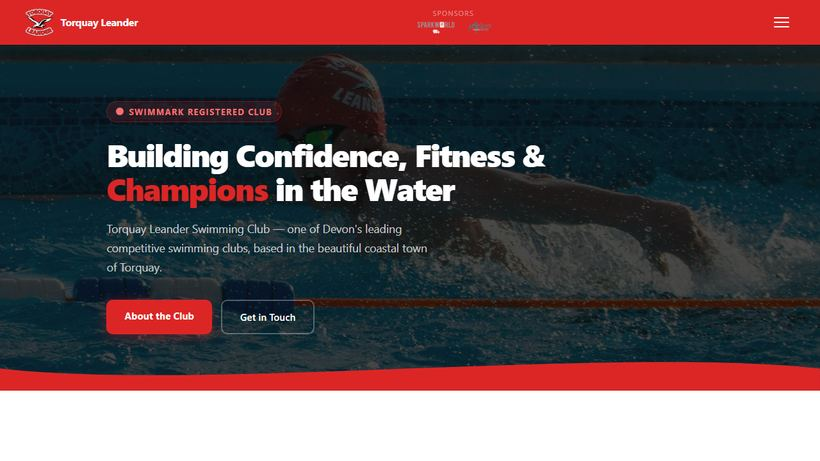
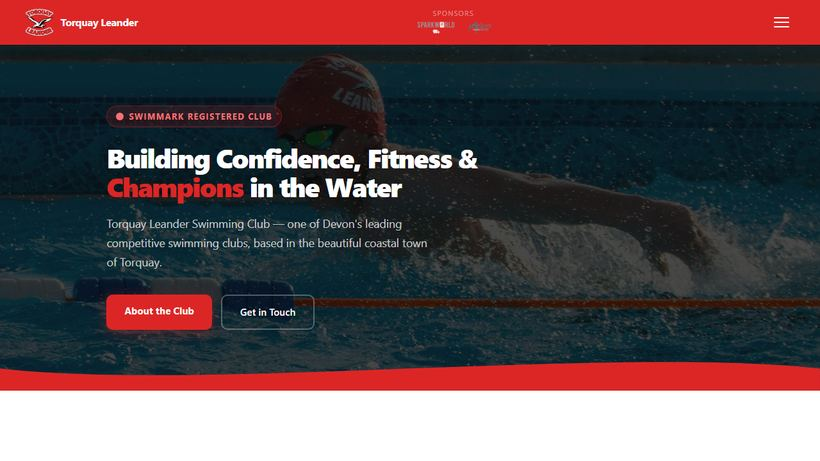
Hero: keep full screen, unify headline size across devices
Height back to 100vh (100svh mobile) per client choice; the
de-emphasis now comes from the headline alone - one narrow clamp
(2rem-2.6rem) for every device replaces the separate desktop and
mobile sizes, so iPhone SE and 1080p desktop render near-identically.
Sample page labels swapped (Full screen now live, Compact scored
winner) and all 20 device fold shots regenerated.

Claude-Session: https://claude.ai/code/session_01CwamtCHtqhpxnLkvYvuCTs

Changed region(s): [[0.122, 0.2126, 0.6707, 0.6074], [0.122, 0.6377, 0.3963, 0.7289]]

diff --git a/src/styles/global.css b/src/styles/global.css
@@ -56,10 +56,9 @@ nav {
 /* HERO */
 .hero {
   position: relative;
-  /* Compact treatment (002 §2): ~3/4 viewport so the stats strip peeks above
-     the fold — full-screen heroes hide that the page continues (NN/g).
-     Winner of the scored comparison at /samples/hero/. */
-  height: clamp(540px, 72vh, 720px);
+  /* 002 §2: full-screen kept (client choice) — de-emphasis comes from the
+     smaller unified headline below. Compact variant remains at /samples/hero/. */
+  height: 100vh;
   display: flex; align-items: center;
   overflow: hidden;
   background: var(--black);
@@ -91,8 +90,9 @@ nav {
   margin-bottom: 24px;
 }
 .hero h1 {
-  /* 002 §2: reduced from clamp(2.4rem, 5vw, 4rem) so the banner is less dominant on desktop */
-  font-size: clamp(2.2rem, 3.8vw, 3.2rem);
+  /* 002 §2: one clamp for every device — reduced from clamp(2.4rem, 5vw, 4rem),
+     and deliberately narrow (2rem–2.6rem) so phones and desktops look similar */
+  font-size: clamp(2rem, 1.6rem + 1.6vw, 2.6rem);
   font-weight: 900; line-height: 1.1;
   letter-spacing: -1.5px;
   margin-bottom: 20px;
@@ -502,8 +502,7 @@ footer {
   .photo-grid .wide { grid-column: span 1; }
   .fb-posts { grid-template-columns: 1fr; }
 
-  .hero { height: auto; min-height: clamp(480px, 74svh, 660px); }
-  .hero h1 { font-size: clamp(1.8rem, 6vw, 2.8rem) !important; }
+  .hero { height: auto; min-height: 100svh; }
   .hero p { font-size: 1rem !important; }
   .hero-btns { flex-direction: column !important; gap: 12px !important; align-items: flex-start !important; }
 

diff --git a/docs/002-mail-changes/reply-mail.md b/docs/002-mail-changes/reply-mail.md
@@ -27,7 +27,7 @@ Below I've split things into what I need from you, decisions I've made that you 
 
 **Logo treatment** — after trying a few variations ([you can see them all here](https://michal-ciechan.github.io/torquay-leander/samples/logo/) — tap any one to preview it on the real site, then hit **Share** to send your choice to me) I've gone with adding a **thick white outline around the words**, to make it more readable at the smaller size a logo actually appears at. The standard logo looks fine small on the black footer, so we could keep that one there, but for now I've used the same thick outline in both places for consistency.
 
-**Hero banner size** — I've compressed the big "Building Confidence…" banner to about three-quarters of the screen, so visitors can see the page continues below (full-screen banners tend to hide that). I mocked up four treatments — full screen, compact, a half-height banner, and a side-by-side layout — and scored them against a fixed set of criteria; [the comparison and scorecard are here](https://michal-ciechan.github.io/torquay-leander/samples/hero/). Compact won and is now live — with the headline itself also a notch smaller on desktop. Under each option you'll find real screenshots of how it looks above the fold on an iPhone SE, iPhone 15 Pro Max, iPad, and 720p/1080p screens, so you can compare devices at a glance.
+**Hero banner** — I've kept the full-screen banner for now but made the "Building Confidence…" headline noticeably smaller, and the same size on every device, which takes away most of the dominance. I also mocked up four treatments — full screen, compact (~3/4 height), a half-height banner, and a side-by-side layout — and scored them against a fixed set of criteria; [the comparison and scorecard are here](https://michal-ciechan.github.io/torquay-leander/samples/hero/), with real above-the-fold screenshots under each option for iPhone SE, iPhone 15 Pro Max, iPad, and 720p/1080p screens. Compact actually scored best (it shows visitors the page continues below), so say the word if you'd like to switch to it.
 
 **Championship event names** — your email lists events in shorthand ("100IM", "25 Backstroke"); the page has always written them out in full ("100m Individual Medley"), so I've kept that style for the 2026 programme. [Both versions side by side here](https://michal-ciechan.github.io/torquay-leander/samples/club-championships/) — say the word if you'd rather use the short names.
 
@@ -44,7 +44,7 @@ Below I've split things into what I need from you, decisions I've made that you 
 - "Galas & Competitions" renamed to just **Competitions**.
 
 **Home page**
-- Main title banner compressed to ~3/4 screen height with a slightly smaller headline, so the content below shows.
+- Main title banner headline made smaller and consistent across devices (banner stays full screen for now).
 - The "SwimMark Registered Club" badge now links to Swim England's SwimMark accreditation page.
 - "Upcoming Meets" replaced by a **News** section showing the live club Facebook feed — posts appear on the website automatically, nothing extra to maintain.
 

diff --git a/docs/002-mail-changes/tasks.md b/docs/002-mail-changes/tasks.md
@@ -29,7 +29,7 @@ Attachments expected (not in raw.md):
 
 ## 2. Home page
 
-- [x] **Hero banner** — Compress / de-emphasise main title banner (“Building Confidence…”) so it is less dominant. *(done — ~72vh compact treatment, capped at 720px; scored comparison of four treatments at `/samples/hero/`)*
+- [x] **Hero banner** — Compress / de-emphasise main title banner (“Building Confidence…”) so it is less dominant. *(done — full-screen height kept for now with a smaller unified headline, clamp(2rem–2.6rem) on every device; compact + other treatments and per-device fold screenshots at `/samples/hero/`)*
 - [x] **News feed (replaces Upcoming Meets)** — Add a Facebook page feed section titled **News**, in place of the current “Upcoming meets” block. *(one and the same task — the News section IS the replacement; done via Facebook Page Plugin iframe of facebook.com/torquayleander)*
   > **Note (site check):** the Facebook page URL is known — `facebook.com/torquayleander`. "Upcoming Meets" is a sidebar `<aside>` in a two-column grid beside the welcome text on `index.astro`; the News feed takes over that aside.
 
